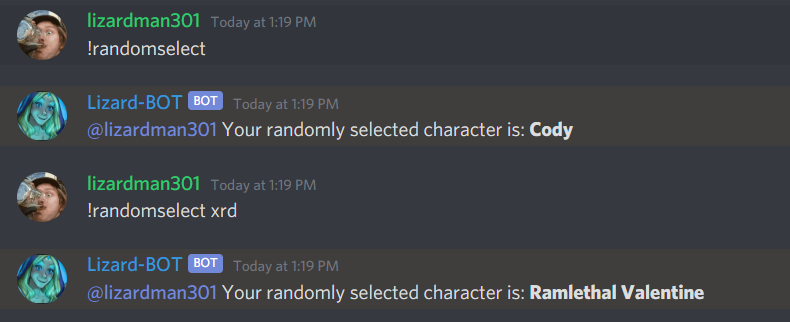
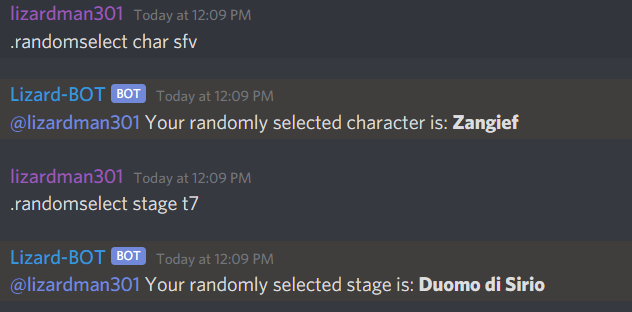
Updated documentation

diff --git a/doc/bot_commands.md b/doc/bot_commands.md
@@ -257,16 +257,15 @@ Shortcuts: `!prefliz`
 
 Prints the prefix currently in use for Lizard-BOT. Will always respond to the "!" prefix.
 
-## `!randomselect [game]`
+## `!randomselect [char/stage] [game]`
 ![!randomselect example](/doc/assets/images/randomselect.png)
 
 Restricted: No
 
-Shortcuts: `!random` `!rs` `!stageselect`
+Shortcuts: `!random` `!rs`
 
-Returns a randomly selected character from the game in the arguments. Will return a SFV character if no game is given.
+Returns a randomly selected character or stage from the game in the arguments. Will return a SFV character if no game is given.
 If a game that does not exist is provided as an argument, it will return the list of acceptable games.
-!stageselect is a shortcut to !randomselect t7stages
 
 ## `!refresh`
 ![!refresh example](/doc/assets/images/refresh.png)

diff --git a/README.md b/README.md
@@ -147,9 +147,10 @@ Explains how to run a ping test using <https://testmyspeed.onl/>. Can be edited 
 `!prefix-lizard`
 Prints the prefix currently in use for Lizard-BOT.
 
-`!randomselect [game]`
+`!randomselect [char/stage] [game]`
 Returns a randomly selected character from the current the specified game. Assumes SFV if no game is given.
-Current games are **3s, footsies, gbvs, mk11, samsho, sfv, t7, t7stages, uni, xrd, +r**
+Current games are **3s, footsies, gbvs, mk11, samsho, sfv, t7, uni, xrd, +r**
+Current stages are **llb, t7**
 
 `!stats [command]`
 Returns the list of all commands and the amount of times they have been used across all servers.  Add a command in the argument to return the count for only that command.
